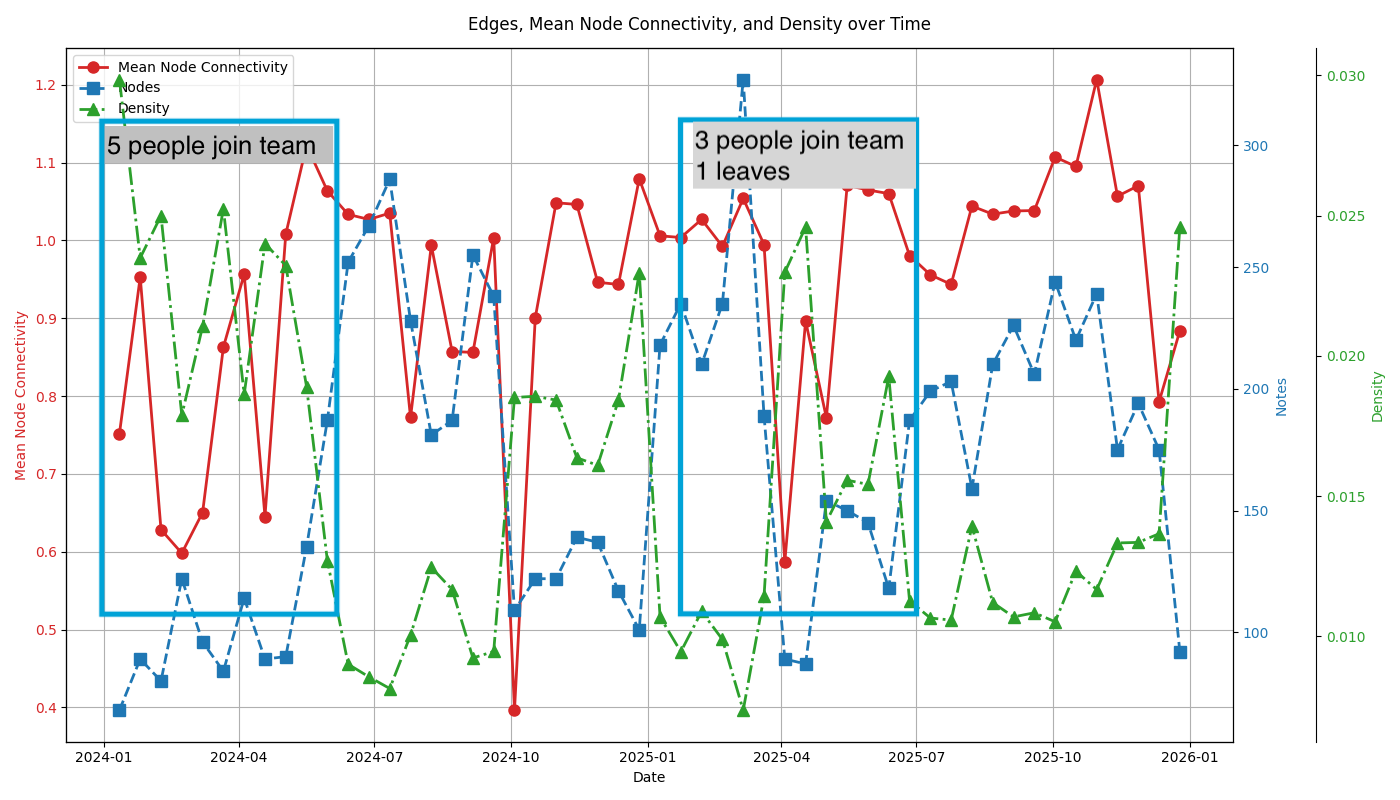
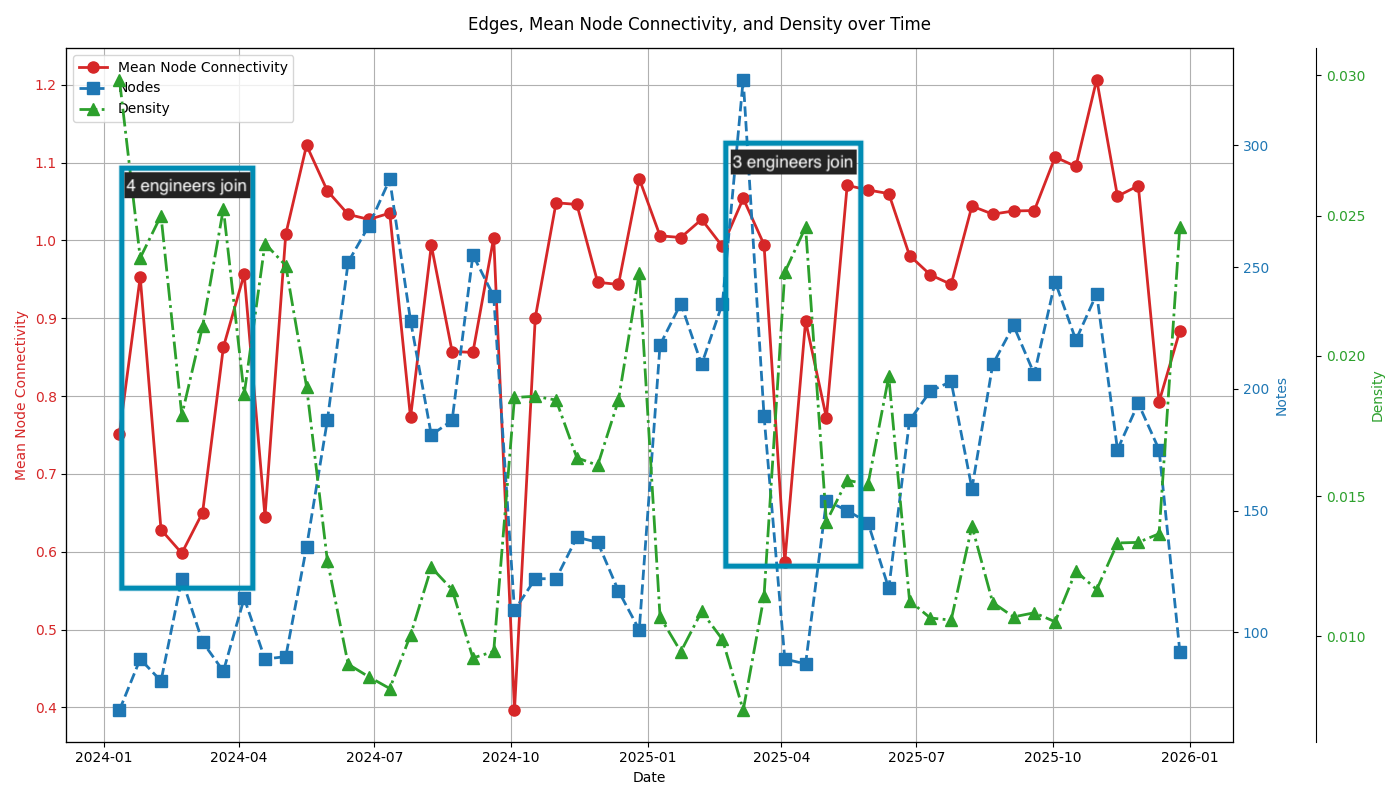
Adding data to the pres

Changed region(s): [[0.4607, 0.125, 0.6757, 0.7812], [0.0614, 0.125, 0.2457, 0.7812]]

diff --git a/slides.md b/slides.md
@@ -314,9 +314,80 @@ class: text-center
 transition: fade-out
 ---
 
-# Data Collection
+# Data Collection and Processing
 
 - Started collecting data using a script similar to [gh-graph-explorer](https://github.com/geramirez/gh-graph-explorer) in January 2023. 
+- Stored data in an csv edge list (usernames -- interaction -> GitHub)
+- Removed data points considered "fake collaboration" like weekly standup reports.
+- At first clean up bots... but then decided to leave them. 
+
+<br>
+<img src="./images/edge-list.png" alt="example edge list" style="width: 30em; max-width: 100%; height: auto; display: block; margin: 0 auto;" />
+
+---
+transition: fade-out
+---
+
+# Building The Network
+
+## Bipartite Network
+
+```mermaid
+graph LR
+    %% Users as circles
+    U1(GitHub User A)
+    U2(GitHub User B)
+    U3(GitHub User C)
+
+    %% PRs as rectangles
+    PR1[Pull Request 1]
+    PR2[Pull Request 2]
+
+    %% Relationships
+    U1 -- "pr created" --> PR1
+    U2 -- "pr commented" --> PR1
+    U3 -- "pr approved" --> PR1
+    U3 -- "pr created" --> PR2
+```
+
+
+---
+transition: fade-out
+---
+
+# Building The Network
+
+## Collpased Bipartite Network
+
+<br> 
+```mermaid
+graph LR
+    U1(GitHub User A)
+    U2(GitHub User B)
+    U3(GitHub User C)
+
+    U1 ---|shared PR: Pull Request 1| U2
+    U1 ---|shared PR: Pull Request 1| U3
+    U2 ---|shared PR: Pull Request 1| U3
+```
+
+
+---
+transition: fade-out
+---
+
+# Visualizing The Network
+
+- Tools like [Gephi](https://gephi.org/), [vis-network](https://github.com/visjs/vis-network), [Cosmograph](https://cosmograph.app/), and [Neo4J](https://neo4j.com/)
+
+<img src="./images/notifications-team-graph.png" alt="1.5 years of GitHub Notifications Team" style="width: 38em; max-width: 100%; height: auto; display: block; margin: 0 auto;" />
+
+
+
+---
+transition: fade-out
+---
+# Network Analysis
 - Took bi-weekly measurments of the number of nodes, connectivity, and density of the network.
 - Always open with the project with my team  - shared (network + group metrics graphs)
 
@@ -325,11 +396,12 @@ transition: fade-out
 <img src="./images/network-graph-for-my-people.png" alt="Image showing my team's network stats" style="width: 32em; max-width: 100%; height: auto; display: block; margin: 0 auto;" />
 
 
+
 ---
 transition: fade-out
 ---
 
-# Analysis
+# __Social__ Network Analysis
 
 - Start with manager context, 1-1s, weekly updates, Slack conversations, Issues and PRs
 - Use information to contextualize the network data
@@ -347,72 +419,123 @@ Without context, interpreations are worthless. SNA is not a shortcut to understa
 transition: fade-out
 ---
 
-# Learnings 
+# Learning Areas
 
 <br>
 
-## - Team On/Offboardings
-## - The Seniority Bottleneck
-## - Manager Bottlenecks
+# - Team On and Offboardings
+# - Cliques and Silos
+# - The Seniority Bottleneck
+# - Manager Bottlenecks
 
 
 ---
 transition: fade-out
 ---
 
-# Team On/Offboardings Problem
+# Team On and Offboardings
 
 <img src="./images/network-graph-for-my-people-onboarding.png" alt="Image showing my team's network stats" style="width: 40em; max-width: 100%; height: auto; display: block; margin: 0 auto;" />
 
 <!--
 - it’s well documented that adding or removing people from a team affects team velocity.
-- From the network perspective, something similar happens, the social network can also become more fragmented. 
+- From the network perspective, something similar happens, the social network can also become more fragmented.
+- I didn't start collecting on these people until 2-3 weeks after they joined
 -->
 
 ---
 transition: fade-out
 ---
 
-# Team On/Offboardings Solution
+# Team On and Offboardings Mitigations
 
-- As leaders, we can help with building onboarding programs that create a diverse set of links between people.
 - Create a buddy system this help incorporate the people into the network 
-- Onboarding guide that directly asks people to build connections 1-1s with everyone on the team
+- Build onboarding guide that directly asks people to build connections 1-1s with everyone on the team
 - Allow for relationship building rather than just pushing people into a silo
+
 
 ---
 transition: fade-out
 ---
 
-# The Seniority Bottleneck Problem
+# Cliques and Silos
+
+<br>
+<img src="./images/cliq-silos.png" alt="Image showing a two silos" style="width: 40em; max-width: 100%; height: auto; display: block; margin: 0 auto;" />
+
+
+---
+transition: fade-out
+---
+
+# Cliques and Silos Mitigations
+
+- Specialization vs Generalization - Deep work vs Cross-team work
+- When It's Positive - Encourage it let it be. Allow deep connections and work.
+- When It's Determental - Rotations, cross-team projects, mob sessions
+
+
+
+---
+transition: fade-out
+---
+
+# The Seniority Bottleneck
+
+<br>
+<img src="./images/central-senior.png" alt="A central senior engineer" style="width: 30em; max-width: 100%; height: auto; display: block; margin: 0 auto;" />
+
+
+<!--
 - senior engineers have richer networks: they have been at the organization, find it easier to reach out to others, or have more confidence when reviewing PR
 - Their strong social ties are an asset, but they can also make it difficult for more junior engineers to meaningfully participate.
 - Over the last two years, I tried a number of social experiments to nudge engineers closer together.
+-->
 
-
----
-transition: fade-out
----
-
-# The Seniority Bottleneck Solution
-- Creating Junior-only Task Forces: allows juniors to build confidence, practice leadership and communication in a safer environment and a smaller scale. 
-- Temporarily splitting up dynamic duos: allows more of the team to benefit from their shared connections
-- Setting up Mob programming sessions: an easier way to generate group conversations and communication especially when you have an engaging facilitator 
 
 
 ---
 transition: fade-out
 ---
 
-# Manager Bottlenecks Problem
-- I found that sometimes the bottleneck was me. I was too central in the network and decision-making process 
+# The Seniority Bottleneck Mitigations
+
+- Mob Sessions
+- Creating Junior-only Task Forces
+
+<br>
+<img src="./images/seniors-and-juniors.png" alt="A central senior engineer" style="width: 30em; max-width: 100%; height: auto; display: block; margin: 0 auto;" />
+
+
+
+<!--
+ allows juniors to build confidence, practice leadership and communication in a safer environment and a smaller scale. 
+- Setting up Mob programming sessions: an easier way to generate group conversations and communication especially when you have an engaging facilitator
+-->
 
 
 ---
 transition: fade-out
 ---
 
-# Manager Bottlenecks Solution
+# Manager Bottlenecks
+
+
+
+<img src="./images/network-graph-for-my-manager.png" alt="Image showing my team's network stats" style="width: 32em; max-width: 100%; height: auto; display: block; margin: 0 auto;" />
+
+
+<!--
+- sometimes the bottleneck can be a manager. 
+- it's complicated because managers tend tob
+-->
+
+
+---
+transition: fade-out
+---
+
+# Manager Bottlenecks Mitigations
 - found that the best course of action was to pull back and give my reports more agency. 
 
 
@@ -421,9 +544,16 @@ transition: fade-out
 ---
 
 # Performance Metrics? 
+<br>
+<img src="./images/imposter.png" alt="imposter xkcd" style="width: 34em; max-width: 100%; height: auto; display: block; margin: 0 auto;" />
 
+XKCD. (2013). "Impostor". XKCD. https://xkcd.com/149/
+
+<!--
 - With these insights, it can be tempting to turn social network analysis into a performance metric
 - especially when we can easily use computational methods to calculate things like how central a person is to the network
+-->
+
 
 ---
 transition: fade-out
@@ -431,20 +561,89 @@ transition: fade-out
 
 # Performance Metrics?
 
-## NO
+<v-clicks>
 
+# NO
+
+<br>
+
+
+### Reasons for High Connectedness
+- Leader
+- Glue work
+- Low value work
+
+<br>
+
+### Low Connection and Isolation Reasons
+- Vacation
+- Deep Work and Research 
+- Personal Issues 
+
+</v-clicks>
+
+
+<!-- 
 Low connectedness and isolation can have so many different interpretations and the tools we need to apply are rarely performance management.
 
 1. People are on vacation: this can be positive, having a person who is a central node go on a two-week vacation can give the space for new connections to form.
 2. People are working through something personal: as managers, if we see an isolated individual we should be curious first and see if we can support them 
-3. Other reasons include burnout, wrong fit, or lack of skills: noticing a person is isolated is only the first step, we still need our other tools like 1:1s, coaching to navigate difficult situations 
+3. Other reasons include burnout, wrong fit, or lack of skills: noticing a person is isolated is only the first step, we still need our other tools like 1:1s, coaching to navigate difficult situations
+-->
+ 
 
 ---
 transition: fade-out
 ---
 
-# Performance Metrics?
+# Performance Metrics or Leadership Report Cards?
 
+<img src="./images/network-graph-for-my-people.png" alt="Image showing my team's network stats" style="width: 32em; max-width: 100%; height: auto; display: block; margin: 0 auto;" />
+
+<!--
 If anything it's a performance metrics for us as leaders. Are we being good team custodians?
+-->
 
 
+---
+transition: fade-out
+---
+
+# How to get Started with SNA?
+
+[geramirez/gh-graph-explorer](https://github.com/geramirez/gh-graph-explorer?tab=readme-ov-file#installation)
+
+<img src="./images/gh-graph-explorer.png" alt="QR Code for https://github.com/geramirez/gh-graph-explorer" style="width: 350px; max-width: 100%; height: auto; display: block; margin: 0 auto;" />
+
+
+
+---
+transition: fade-out
+---
+
+# How to get Started with SNA?
+
+## [Obsidan Graph View](https://obsidian.md/help/plugins/graph)
+
+Using links you can map out connections during 1-1s, team meetings, or retrospectives.
+
+<img src="./images/graph-view.png" alt="Obsidian graph-view plugin" style="width: 350px; max-width: 100%; height: auto; display: block; margin: 0 auto;" />
+
+
+
+
+---
+transition: fade-out
+---
+
+# How to get Started with SNA?
+
+## Awareness
+- Building an intuitive sense of the social networks around you. 
+- Organization chart vs How Stuff Gets Done
+
+---
+transition: fade-out
+---
+
+# Thank you!
